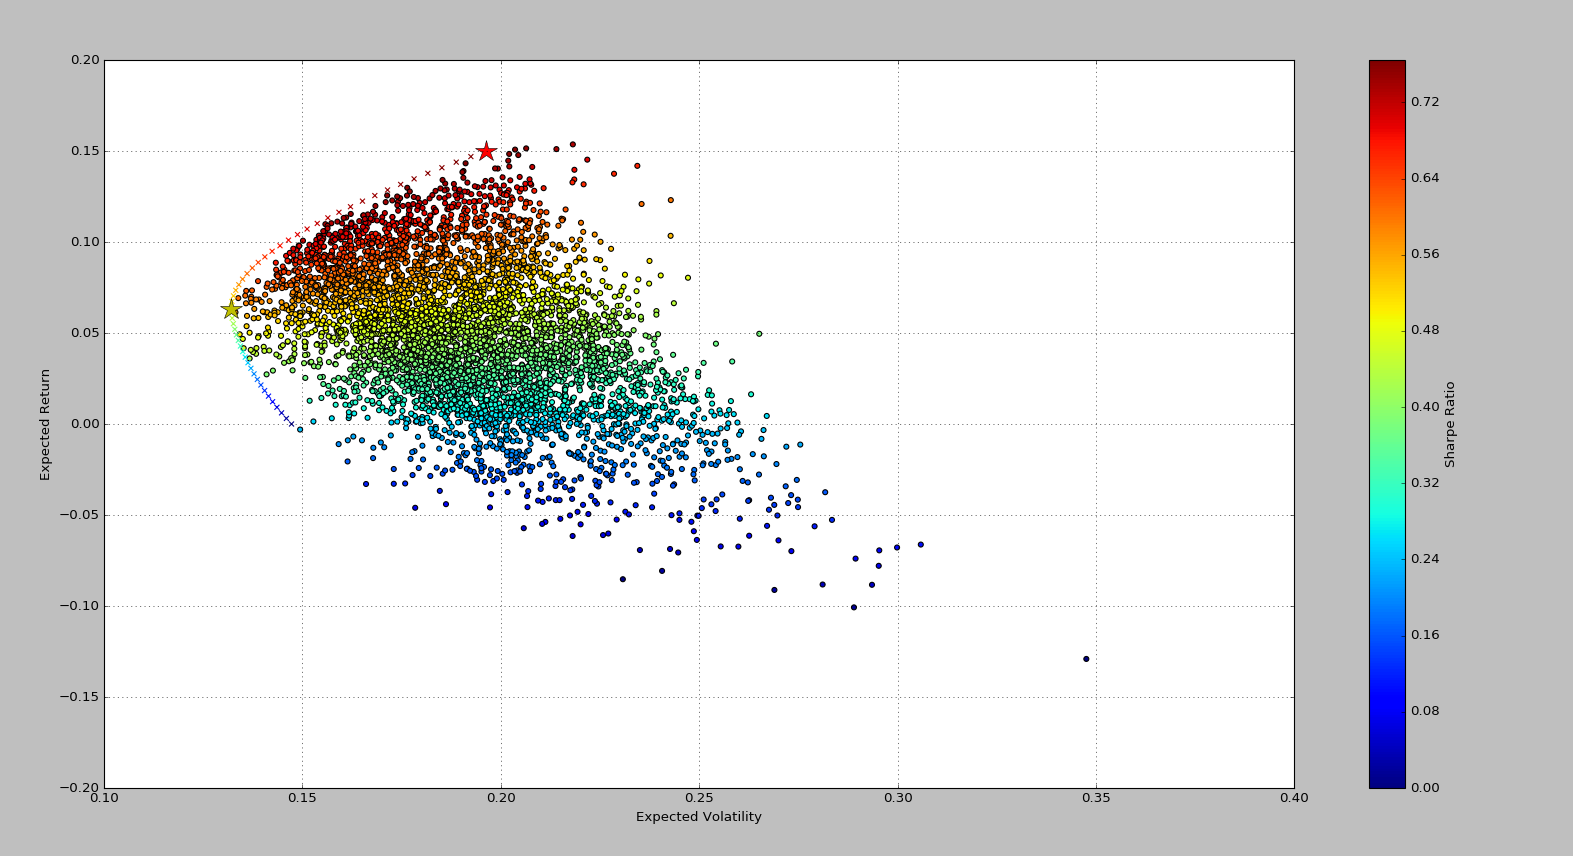
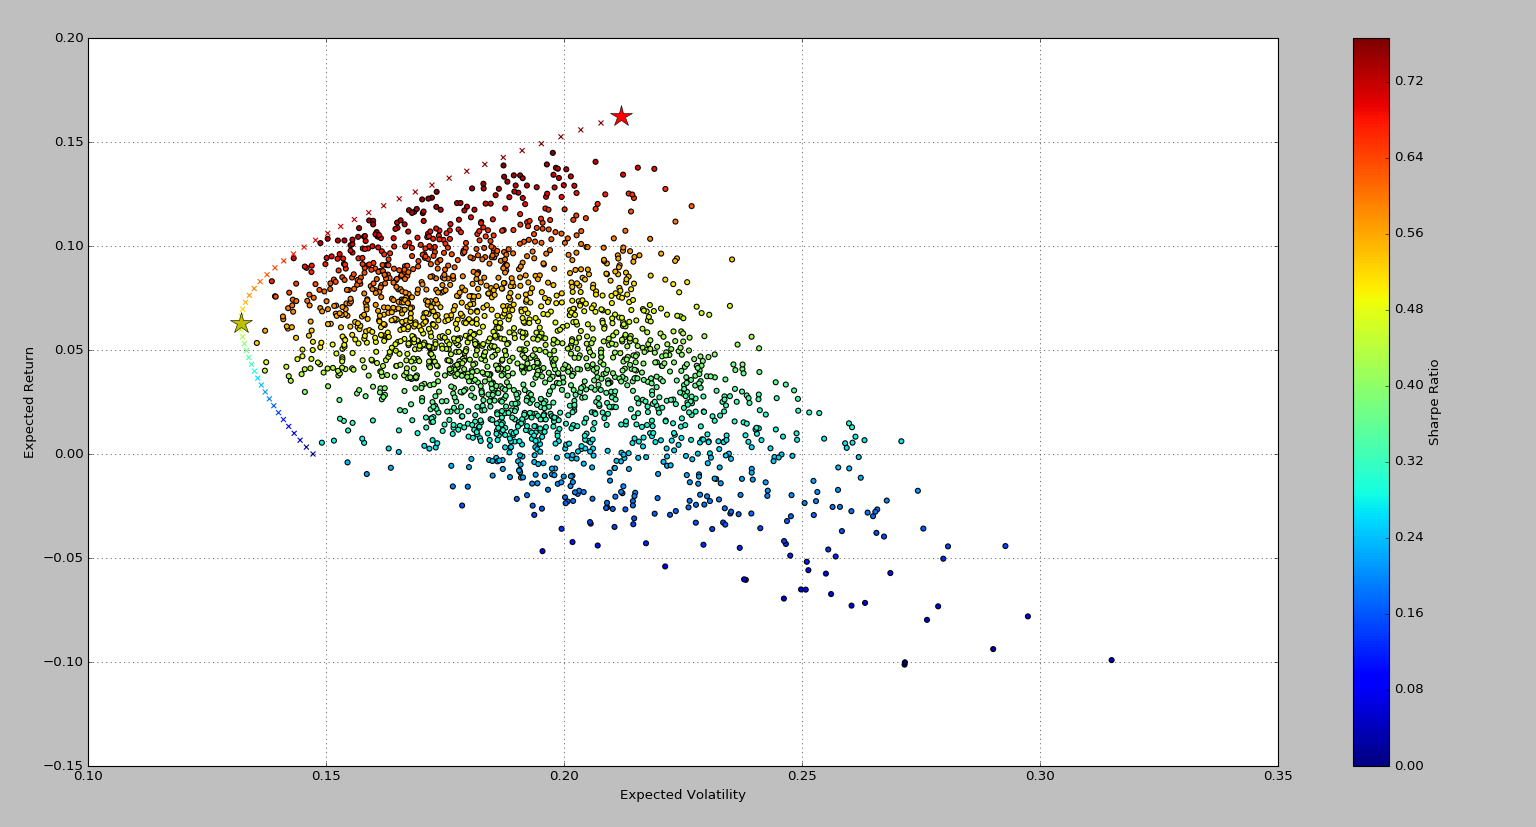
Minor Changes

diff --git a/stockUtils.py b/stockUtils.py
@@ -74,7 +74,7 @@ def statistics(weights):
 Plots results of various random portfolio weights (monte carlo simulation), the optomized portfolios, the efficent frontier 
 
 '''
-def plot_data(numberOfSims, targetRets, targetVolits, resultSharpe, resultVar):
+def plot_data(numberOfSims, targetRets, targetVolits, resultVar, resultSharpe):
 	expectedPortRet = []
 	expectedPortVolit = []
 
@@ -123,23 +123,23 @@ Returns optimized portfolio weights
 [1] = weights for portfolio with lowest variance for the desired target return value 
 
 '''
-def optimize_portfolio(numberOfSims, target):
-	#Fix a target return for the portfolio and we find the min volitality
-	targetRets = np.linspace(0.0,target,50)
-	targetVolits = []
+def optimize_portfolio(numberOfSims):
 
 	#Defining bounds for optimization
 	#Bounds to be [0,1] for any given weight 
 	bounds = tuple((0, 1) for x in range(noa))
+	constraints = ({'type': 'eq', 'fun': lambda x: (np.sum(x) - 1)})
 
 	#Use evenly distributed weights as the inital starting point 
 	initWeights = noa * [1.0 / noa]
-
-	#Optimize Portfolio weights for the LOWEST variance (risk)
-	constraints = ({'type': 'eq', 'fun': lambda x: (np.sum(x) - 1)})
-	resultVar = spo.minimize(min_func_variance, initWeights, method = 'SLSQP', bounds = bounds, constraints = constraints)
+	
+	#optimize portoflios
+	optSharpe = spo.minimize(min_func_sharpe, initWeights, method = 'SLSQP', bounds = bounds, constraints = constraints)
+	optVariance = spo.minimize(min_func_variance, initWeights, method = 'SLSQP', bounds = bounds, constraints = constraints)
 
 	#Building Efficent Frontier
+	targetRets = np.linspace(0.0,(statistics(optSharpe['x'])[0]),50)
+	targetVolits = []
 	for targetRet in targetRets:
 
 		#Defining optimization constraints as a dictionary 
@@ -147,16 +147,16 @@ def optimize_portfolio(numberOfSims, target):
 		cons = ({'type': 'eq', 'fun': lambda x: (np.sum(x) - 1)},
 				   	   {'type': 'eq', 'fun': lambda x: statistics(x)[0] - targetRet})
 
-		resultSharpe = spo.minimize(min_func_variance, initWeights, method = 'SLSQP', bounds = bounds, constraints = cons)
+		res = spo.minimize(min_func_variance, initWeights, method = 'SLSQP', bounds = bounds, constraints = cons)
 
 		#Creating points for efficent frontier
-		targetVolits.append(resultSharpe['fun'])
+		targetVolits.append(res['fun'])
 
 	#resultSharpe now holds the result of weights for the portfolio that has the highest sharpe ratio FOR the specified target
 	targetVolits = np.array(targetVolits)
 
-	plot_data(numberOfSims, targetRets, targetVolits, resultSharpe, resultVar)
-	return resultVar['x'].round(4), resultSharpe['x'].round(4)
+	plot_data(numberOfSims, targetRets, targetVolits, optVariance, optSharpe)
+	return optVariance['x'].round(4), optSharpe['x'].round(4)
 
 '''
 The first function we want to minimize is the negative of the sharpe ratio. We want to find the max sharpe ratio 

diff --git a/Optimizer.py b/Optimizer.py
@@ -18,9 +18,6 @@ if (__name__ == "__main__"):
 	endDate = raw_input("Enter end date (YYYY-MM-DD): ") 
 	dates = pd.date_range(startDate, endDate)
 
-	#Obtain target portfolio return from the user
-	target = float(raw_input("Enter the target return as a decimal value: "))
-
 	try:
 		adjClose = stockUtils.get_data(symbols, dates)
 		dailyReturns = stockUtils.get_daily_returns(adjClose)
@@ -28,7 +25,7 @@ if (__name__ == "__main__"):
 		#target is the targeted return value (as a decimal percentage) that you want to find the min risk portfolio for
 		#lower target usually results in more evenly distributed weights
 		stockUtils.initPortfolio(len(symbols), dailyReturns)
-		result = stockUtils.optimize_portfolio(numberOfSims = 5000, target = target)
+		result = stockUtils.optimize_portfolio(numberOfSims = 2000)
 	except Exception:
 		print("\n\nSorry, it seems something went wrong. \nA symbol may have been entered incorrectly or an invalid date range was selected. \nPlease try again.")
 		sys.exit()
@@ -40,5 +37,5 @@ if (__name__ == "__main__"):
 	print ('Expected Returns: {0} \nExpected Volatility: {1} \nSharpe Ratio: {2}'.format(stockUtils.statistics(result[0])[0], stockUtils.statistics(result[0])[1], stockUtils.statistics(result[0])[2]))
 
 	print 
-	print ('\nTarget Return Portfolio (Red Star){0}'.format(result[1]))
+	print ('\nMaximum Sharpe Ratio Portfolio (Red Star){0}'.format(result[1]))
 	print ('Expected Returns: {0} \nExpected Volatility: {1} \nSharpe Ratio: {2}'.format(stockUtils.statistics(result[1])[0], stockUtils.statistics(result[1])[1], stockUtils.statistics(result[1])[2]))
